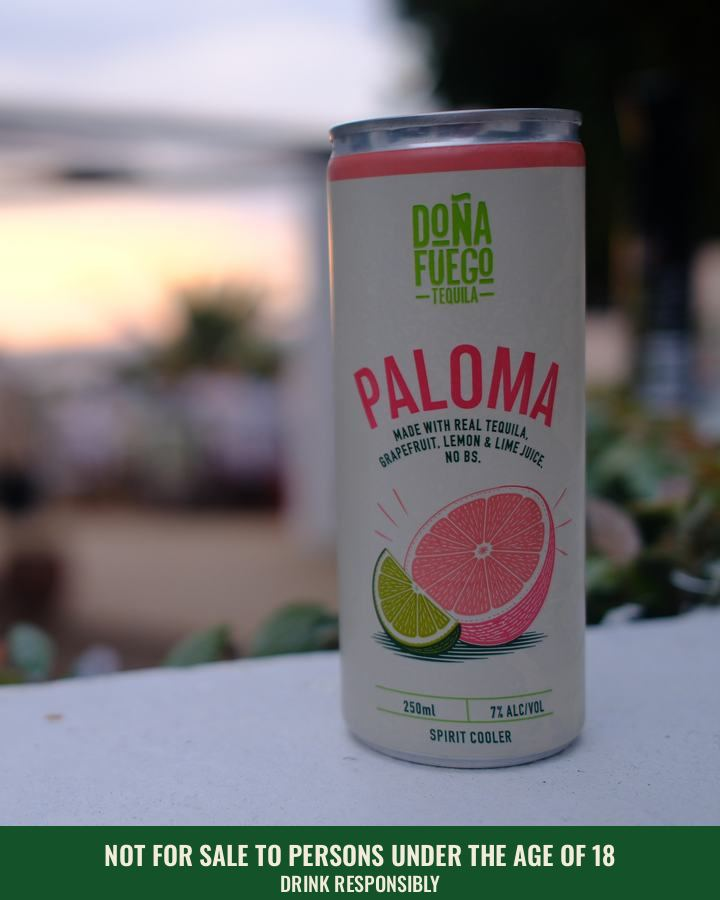
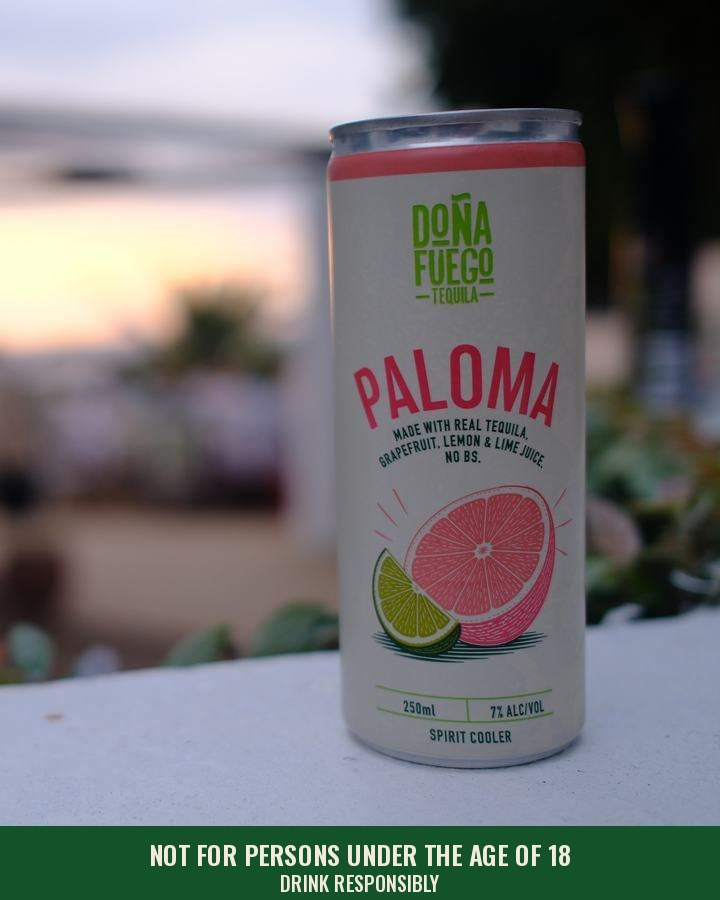
Keep alcohol strength out of the Cooler Box ads and use the code's under-18 line
The Drinks Federation code bars advertising alcohol content outside the
label, so the product line drops "7%" on all three flavours. Captions,
image bands, the compliance list and the footer carry the code's
authorised wording, "Not for Persons Under the Age of 18". The Paloma
occasion line reads "Grapefruit, tequila, ice. Nothing to mix.", which
matches what's in the can.

Claude-Session: https://claude.ai/code/session_011fdbpmyy5yLCTsUBG2fLD6

Changed region(s): [[0.1222, 0.9333, 0.8556, 0.9956]]

diff --git a/ads/index.html b/ads/index.html
@@ -259,7 +259,7 @@ footer{max-width:880px;margin:0 auto;padding-top:20px;border-top:1px solid var(-
         <img class="ig-img" src="img/margarita_a.jpg" alt="A guest pours a Doña Fuego Margarita can into a salt-rimmed glass at the table" loading="lazy">
         <div class="ig-cta"><span>Shop now</span><span aria-hidden="true">›</span></div>
         <div class="ig-icons" aria-hidden="true"><svg viewBox="0 0 24 24"><path d="M12 21s-7-4.6-9.3-8.9C1.2 9.2 2.8 5.5 6.3 5.1c2-.2 3.4.9 5.7 3 2.3-2.1 3.7-3.2 5.7-3 3.5.4 5.1 4.1 3.6 7C19 16.4 12 21 12 21z"/></svg><svg viewBox="0 0 24 24"><path d="M21 12a8.5 8.5 0 0 1-12.6 7.4L3 21l1.6-5.2A8.5 8.5 0 1 1 21 12z"/></svg><svg viewBox="0 0 24 24"><path d="M22 3 11 13M22 3l-7 18-4-8-8-4z"/></svg><svg class="save" viewBox="0 0 24 24"><path d="M19 21l-7-5-7 5V3h14z"/></svg></div>
-        <div class="ig-cap"><b>drink_fuego_tequila</b> Real tequila, real lime, 7%. Doña Fuego Margarita, R169 a 4-pack, delivered by Checkers Sixty60 in 60 minutes. Not for sale to persons under the age of 18. Drink responsibly.</div>
+        <div class="ig-cap"><b>drink_fuego_tequila</b> Real tequila, real lime. Doña Fuego Margarita, R169 a 4-pack, delivered by Checkers Sixty60 in 60 minutes. Not for Persons Under the Age of 18. Drink responsibly.</div>
       </div></article>
       <article class="ad"><div class="ad-label"><span class="eyebrow">Photo B · the cooler box · line 2</span></div>
       <div class="ig">
@@ -267,15 +267,15 @@ footer{max-width:880px;margin:0 auto;padding-top:20px;border-top:1px solid var(-
         <img class="ig-img" src="img/margarita_b.jpg" alt="The branded Doña Fuego cooler box, open, with Paloma, Margarita and Spicy Margarita cans on ice" loading="lazy">
         <div class="ig-cta"><span>Shop now</span><span aria-hidden="true">›</span></div>
         <div class="ig-icons" aria-hidden="true"><svg viewBox="0 0 24 24"><path d="M12 21s-7-4.6-9.3-8.9C1.2 9.2 2.8 5.5 6.3 5.1c2-.2 3.4.9 5.7 3 2.3-2.1 3.7-3.2 5.7-3 3.5.4 5.1 4.1 3.6 7C19 16.4 12 21 12 21z"/></svg><svg viewBox="0 0 24 24"><path d="M21 12a8.5 8.5 0 0 1-12.6 7.4L3 21l1.6-5.2A8.5 8.5 0 1 1 21 12z"/></svg><svg viewBox="0 0 24 24"><path d="M22 3 11 13M22 3l-7 18-4-8-8-4z"/></svg><svg class="save" viewBox="0 0 24 24"><path d="M19 21l-7-5-7 5V3h14z"/></svg></div>
-        <div class="ig-cap"><b>drink_fuego_tequila</b> The drink you bring when everyone else brings wine. Doña Fuego Margarita, R169 a 4-pack, exclusive to Checkers LiquorShop and Sixty60. Not for sale to persons under the age of 18. Drink responsibly.</div>
+        <div class="ig-cap"><b>drink_fuego_tequila</b> The drink you bring when everyone else brings wine. Doña Fuego Margarita, R169 a 4-pack, exclusive to Checkers LiquorShop and Sixty60. Not for Persons Under the Age of 18. Drink responsibly.</div>
       </div></article>
     </div>
     <div class="tw"><table class="grid">
       <thead><tr><th>Ad</th><th>Photo</th><th>Caption opens with</th></tr></thead>
       <tbody>
-        <tr><td>1.A1</td><td>the pour</td><td>Line 1 · “Real tequila, real lime, 7%.”</td></tr>
+        <tr><td>1.A1</td><td>the pour</td><td>Line 1 · “Real tequila, real lime.”</td></tr>
         <tr><td>1.A2</td><td>the pour</td><td>Line 2 · “The drink you bring when everyone else brings wine.”</td></tr>
-        <tr><td>1.B1</td><td>the cooler box</td><td>Line 1 · “Real tequila, real lime, 7%.”</td></tr>
+        <tr><td>1.B1</td><td>the cooler box</td><td>Line 1 · “Real tequila, real lime.”</td></tr>
         <tr><td>1.B2</td><td>the cooler box</td><td>Line 2 · “The drink you bring when everyone else brings wine.”</td></tr>
       </tbody>
     </table></div>
@@ -289,7 +289,7 @@ footer{max-width:880px;margin:0 auto;padding-top:20px;border-top:1px solid var(-
         <img class="ig-img" src="img/spicy_a.jpg" alt="A Spicy Margarita can standing in crushed ice" loading="lazy">
         <div class="ig-cta"><span>Shop now</span><span aria-hidden="true">›</span></div>
         <div class="ig-icons" aria-hidden="true"><svg viewBox="0 0 24 24"><path d="M12 21s-7-4.6-9.3-8.9C1.2 9.2 2.8 5.5 6.3 5.1c2-.2 3.4.9 5.7 3 2.3-2.1 3.7-3.2 5.7-3 3.5.4 5.1 4.1 3.6 7C19 16.4 12 21 12 21z"/></svg><svg viewBox="0 0 24 24"><path d="M21 12a8.5 8.5 0 0 1-12.6 7.4L3 21l1.6-5.2A8.5 8.5 0 1 1 21 12z"/></svg><svg viewBox="0 0 24 24"><path d="M22 3 11 13M22 3l-7 18-4-8-8-4z"/></svg><svg class="save" viewBox="0 0 24 24"><path d="M19 21l-7-5-7 5V3h14z"/></svg></div>
-        <div class="ig-cap"><b>drink_fuego_tequila</b> Real jalapeño tequila, lemon and lime, 7%. Doña Fuego Spicy Margarita, R169 a 4-pack, delivered by Checkers Sixty60 in 60 minutes. Not for sale to persons under the age of 18. Drink responsibly.</div>
+        <div class="ig-cap"><b>drink_fuego_tequila</b> Real jalapeño tequila, lemon and lime. Doña Fuego Spicy Margarita, R169 a 4-pack, delivered by Checkers Sixty60 in 60 minutes. Not for Persons Under the Age of 18. Drink responsibly.</div>
       </div></article>
       <article class="ad"><div class="ad-label"><span class="eyebrow">Photo B · out of the cooler · line 2</span></div>
       <div class="ig">
@@ -297,15 +297,15 @@ footer{max-width:880px;margin:0 auto;padding-top:20px;border-top:1px solid var(-
         <img class="ig-img" src="img/spicy_b.jpg" alt="A hand lifting a Spicy Margarita can out of an iced cooler box, disposable-camera shot" loading="lazy">
         <div class="ig-cta"><span>Shop now</span><span aria-hidden="true">›</span></div>
         <div class="ig-icons" aria-hidden="true"><svg viewBox="0 0 24 24"><path d="M12 21s-7-4.6-9.3-8.9C1.2 9.2 2.8 5.5 6.3 5.1c2-.2 3.4.9 5.7 3 2.3-2.1 3.7-3.2 5.7-3 3.5.4 5.1 4.1 3.6 7C19 16.4 12 21 12 21z"/></svg><svg viewBox="0 0 24 24"><path d="M21 12a8.5 8.5 0 0 1-12.6 7.4L3 21l1.6-5.2A8.5 8.5 0 1 1 21 12z"/></svg><svg viewBox="0 0 24 24"><path d="M22 3 11 13M22 3l-7 18-4-8-8-4z"/></svg><svg class="save" viewBox="0 0 24 24"><path d="M19 21l-7-5-7 5V3h14z"/></svg></div>
-        <div class="ig-cap"><b>drink_fuego_tequila</b> Straight out of the cooler box. Doña Fuego Spicy Margarita, R169 a 4-pack, exclusive to Checkers LiquorShop and Sixty60. Not for sale to persons under the age of 18. Drink responsibly.</div>
+        <div class="ig-cap"><b>drink_fuego_tequila</b> Straight out of the cooler box. Doña Fuego Spicy Margarita, R169 a 4-pack, exclusive to Checkers LiquorShop and Sixty60. Not for Persons Under the Age of 18. Drink responsibly.</div>
       </div></article>
     </div>
     <div class="tw"><table class="grid">
       <thead><tr><th>Ad</th><th>Photo</th><th>Caption opens with</th></tr></thead>
       <tbody>
-        <tr><td>2.A1</td><td>can in ice</td><td>Line 1 · “Real jalapeño tequila, lemon and lime, 7%.”</td></tr>
+        <tr><td>2.A1</td><td>can in ice</td><td>Line 1 · “Real jalapeño tequila, lemon and lime.”</td></tr>
         <tr><td>2.A2</td><td>can in ice</td><td>Line 2 · “Straight out of the cooler box.”</td></tr>
-        <tr><td>2.B1</td><td>out of the cooler</td><td>Line 1 · “Real jalapeño tequila, lemon and lime, 7%.”</td></tr>
+        <tr><td>2.B1</td><td>out of the cooler</td><td>Line 1 · “Real jalapeño tequila, lemon and lime.”</td></tr>
         <tr><td>2.B2</td><td>out of the cooler</td><td>Line 2 · “Straight out of the cooler box.”</td></tr>
       </tbody>
     </table></div>
@@ -319,7 +319,7 @@ footer{max-width:880px;margin:0 auto;padding-top:20px;border-top:1px solid var(-
         <img class="ig-img" src="img/paloma_a.jpg" alt="A guest at a striped picnic table with a Paloma can in front of her" loading="lazy">
         <div class="ig-cta"><span>Shop now</span><span aria-hidden="true">›</span></div>
         <div class="ig-icons" aria-hidden="true"><svg viewBox="0 0 24 24"><path d="M12 21s-7-4.6-9.3-8.9C1.2 9.2 2.8 5.5 6.3 5.1c2-.2 3.4.9 5.7 3 2.3-2.1 3.7-3.2 5.7-3 3.5.4 5.1 4.1 3.6 7C19 16.4 12 21 12 21z"/></svg><svg viewBox="0 0 24 24"><path d="M21 12a8.5 8.5 0 0 1-12.6 7.4L3 21l1.6-5.2A8.5 8.5 0 1 1 21 12z"/></svg><svg viewBox="0 0 24 24"><path d="M22 3 11 13M22 3l-7 18-4-8-8-4z"/></svg><svg class="save" viewBox="0 0 24 24"><path d="M19 21l-7-5-7 5V3h14z"/></svg></div>
-        <div class="ig-cap"><b>drink_fuego_tequila</b> Real tequila, real grapefruit, 7%. Doña Fuego Paloma, R169 a 4-pack, delivered by Checkers Sixty60 in 60 minutes. Not for sale to persons under the age of 18. Drink responsibly.</div>
+        <div class="ig-cap"><b>drink_fuego_tequila</b> Real tequila, real grapefruit. Doña Fuego Paloma, R169 a 4-pack, delivered by Checkers Sixty60 in 60 minutes. Not for Persons Under the Age of 18. Drink responsibly.</div>
       </div></article>
       <article class="ad"><div class="ad-label"><span class="eyebrow">Photo B · can at dusk · line 2</span></div>
       <div class="ig">
@@ -327,16 +327,16 @@ footer{max-width:880px;margin:0 auto;padding-top:20px;border-top:1px solid var(-
         <img class="ig-img" src="img/paloma_b.jpg" alt="A Paloma can on a white wall at dusk, the party out of focus behind it" loading="lazy">
         <div class="ig-cta"><span>Shop now</span><span aria-hidden="true">›</span></div>
         <div class="ig-icons" aria-hidden="true"><svg viewBox="0 0 24 24"><path d="M12 21s-7-4.6-9.3-8.9C1.2 9.2 2.8 5.5 6.3 5.1c2-.2 3.4.9 5.7 3 2.3-2.1 3.7-3.2 5.7-3 3.5.4 5.1 4.1 3.6 7C19 16.4 12 21 12 21z"/></svg><svg viewBox="0 0 24 24"><path d="M21 12a8.5 8.5 0 0 1-12.6 7.4L3 21l1.6-5.2A8.5 8.5 0 1 1 21 12z"/></svg><svg viewBox="0 0 24 24"><path d="M22 3 11 13M22 3l-7 18-4-8-8-4z"/></svg><svg class="save" viewBox="0 0 24 24"><path d="M19 21l-7-5-7 5V3h14z"/></svg></div>
-        <div class="ig-cap"><b>drink_fuego_tequila</b> Grapefruit, tequila, ice. That's the whole recipe. Doña Fuego Paloma, R169 a 4-pack, exclusive to Checkers LiquorShop and Sixty60. Not for sale to persons under the age of 18. Drink responsibly.</div>
+        <div class="ig-cap"><b>drink_fuego_tequila</b> Grapefruit, tequila, ice. Nothing to mix. Doña Fuego Paloma, R169 a 4-pack, exclusive to Checkers LiquorShop and Sixty60. Not for Persons Under the Age of 18. Drink responsibly.</div>
       </div></article>
     </div>
     <div class="tw"><table class="grid">
       <thead><tr><th>Ad</th><th>Photo</th><th>Caption opens with</th></tr></thead>
       <tbody>
-        <tr><td>3.A1</td><td>picnic table</td><td>Line 1 · “Real tequila, real grapefruit, 7%.”</td></tr>
-        <tr><td>3.A2</td><td>picnic table</td><td>Line 2 · “Grapefruit, tequila, ice. That's the whole recipe.”</td></tr>
-        <tr><td>3.B1</td><td>can at dusk</td><td>Line 1 · “Real tequila, real grapefruit, 7%.”</td></tr>
-        <tr><td>3.B2</td><td>can at dusk</td><td>Line 2 · “Grapefruit, tequila, ice. That's the whole recipe.”</td></tr>
+        <tr><td>3.A1</td><td>picnic table</td><td>Line 1 · “Real tequila, real grapefruit.”</td></tr>
+        <tr><td>3.A2</td><td>picnic table</td><td>Line 2 · “Grapefruit, tequila, ice. Nothing to mix.”</td></tr>
+        <tr><td>3.B1</td><td>can at dusk</td><td>Line 1 · “Real tequila, real grapefruit.”</td></tr>
+        <tr><td>3.B2</td><td>can at dusk</td><td>Line 2 · “Grapefruit, tequila, ice. Nothing to mix.”</td></tr>
       </tbody>
     </table></div>
   </div>
@@ -350,7 +350,7 @@ footer{max-width:880px;margin:0 auto;padding-top:20px;border-top:1px solid var(-
         <img class="ig-img" src="img/table_toast.jpg" alt="The whole table raising Doña Fuego cans, with Margarita and Paloma cans across the table" loading="lazy">
         <div class="ig-cta"><span>Shop now</span><span aria-hidden="true">›</span></div>
         <div class="ig-icons" aria-hidden="true"><svg viewBox="0 0 24 24"><path d="M12 21s-7-4.6-9.3-8.9C1.2 9.2 2.8 5.5 6.3 5.1c2-.2 3.4.9 5.7 3 2.3-2.1 3.7-3.2 5.7-3 3.5.4 5.1 4.1 3.6 7C19 16.4 12 21 12 21z"/></svg><svg viewBox="0 0 24 24"><path d="M21 12a8.5 8.5 0 0 1-12.6 7.4L3 21l1.6-5.2A8.5 8.5 0 1 1 21 12z"/></svg><svg viewBox="0 0 24 24"><path d="M22 3 11 13M22 3l-7 18-4-8-8-4z"/></svg><svg class="save" viewBox="0 0 24 24"><path d="M19 21l-7-5-7 5V3h14z"/></svg></div>
-        <div class="ig-cap"><b>drink_fuego_tequila</b> Ordered at 4. In the cooler box by 5. Doña Fuego Margarita, Spicy Margarita and Paloma, R169 a 4-pack, delivered by Checkers Sixty60. Not for sale to persons under the age of 18. Drink responsibly.</div>
+        <div class="ig-cap"><b>drink_fuego_tequila</b> Ordered at 4. In the cooler box by 5. Doña Fuego Margarita, Spicy Margarita and Paloma, R169 a 4-pack, delivered by Checkers Sixty60. Not for Persons Under the Age of 18. Drink responsibly.</div>
       </div></article>
       <article class="ad"><div class="ad-label"><span class="eyebrow">Photo B · the toast on Kodak · line 2</span></div>
       <div class="ig">
@@ -358,7 +358,7 @@ footer{max-width:880px;margin:0 auto;padding-top:20px;border-top:1px solid var(-
         <img class="ig-img" src="img/toast_film.jpg" alt="The same table toast shot on a Kodak disposable: glasses and Margarita cans raised at dusk" loading="lazy">
         <div class="ig-cta"><span>Shop now</span><span aria-hidden="true">›</span></div>
         <div class="ig-icons" aria-hidden="true"><svg viewBox="0 0 24 24"><path d="M12 21s-7-4.6-9.3-8.9C1.2 9.2 2.8 5.5 6.3 5.1c2-.2 3.4.9 5.7 3 2.3-2.1 3.7-3.2 5.7-3 3.5.4 5.1 4.1 3.6 7C19 16.4 12 21 12 21z"/></svg><svg viewBox="0 0 24 24"><path d="M21 12a8.5 8.5 0 0 1-12.6 7.4L3 21l1.6-5.2A8.5 8.5 0 1 1 21 12z"/></svg><svg viewBox="0 0 24 24"><path d="M22 3 11 13M22 3l-7 18-4-8-8-4z"/></svg><svg class="save" viewBox="0 0 24 24"><path d="M19 21l-7-5-7 5V3h14z"/></svg></div>
-        <div class="ig-cap"><b>drink_fuego_tequila</b> Three flavours, one cooler box. Doña Fuego Margarita, Spicy Margarita and Paloma, R169 a 4-pack, exclusive to Checkers LiquorShop and Sixty60. Not for sale to persons under the age of 18. Drink responsibly.</div>
+        <div class="ig-cap"><b>drink_fuego_tequila</b> Three flavours, one cooler box. Doña Fuego Margarita, Spicy Margarita and Paloma, R169 a 4-pack, exclusive to Checkers LiquorShop and Sixty60. Not for Persons Under the Age of 18. Drink responsibly.</div>
       </div></article>
     </div>
     <div class="tw"><table class="grid">
@@ -435,8 +435,8 @@ footer{max-width:880px;margin:0 auto;padding-top:20px;border-top:1px solid var(-
   <h2 id="rules">Compliance</h2>
   <ul>
     <li>18-plus targeting; everyone in frame is over 25.</li>
-    <li>“Not for sale to persons under the age of 18. Drink responsibly.” on every image and caption.</li>
-    <li>No driving, competitor products, sport or drinking-for-success messages (Meta and ARA rules).</li>
+    <li>“Not for Persons Under the Age of 18. Drink responsibly.” on every image and caption.</li>
+    <li>No alcohol strength, driving, competitor products, sport or drinking-for-success messages (Meta's alcohol policy and the DF-SA alcohol code).</li>
   </ul>
 </section>
 
@@ -458,7 +458,7 @@ footer{max-width:880px;margin:0 auto;padding-top:20px;border-top:1px solid var(-
 </section>
 
 </main>
-<footer><span>Doña Fuego · Cooler Box campaign</span><span>Not for sale to persons under the age of 18. Drink responsibly.</span></footer>
+<footer><span>Doña Fuego · Cooler Box campaign</span><span>Not for Persons Under the Age of 18. Drink responsibly.</span></footer>
 <script>
 (function(){
   var reduce=window.matchMedia('(prefers-reduced-motion: reduce)').matches;
